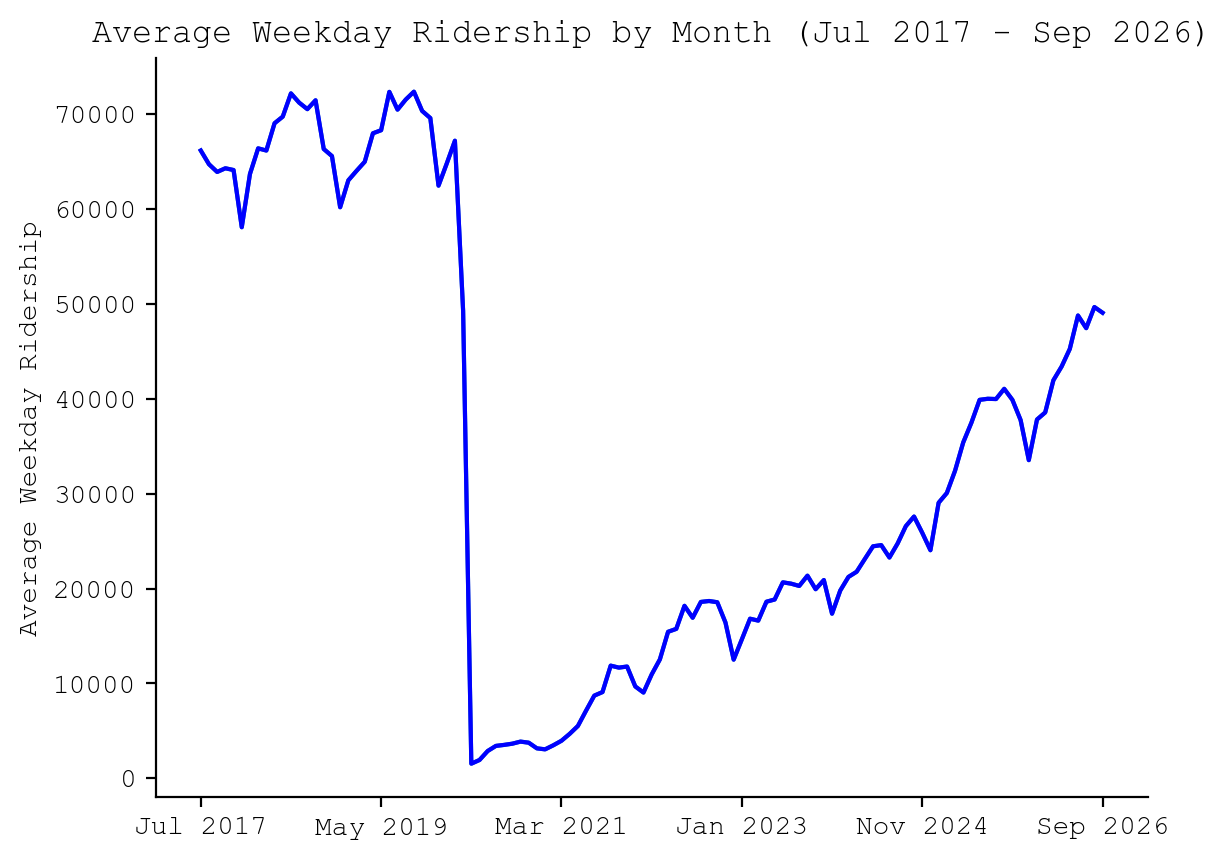
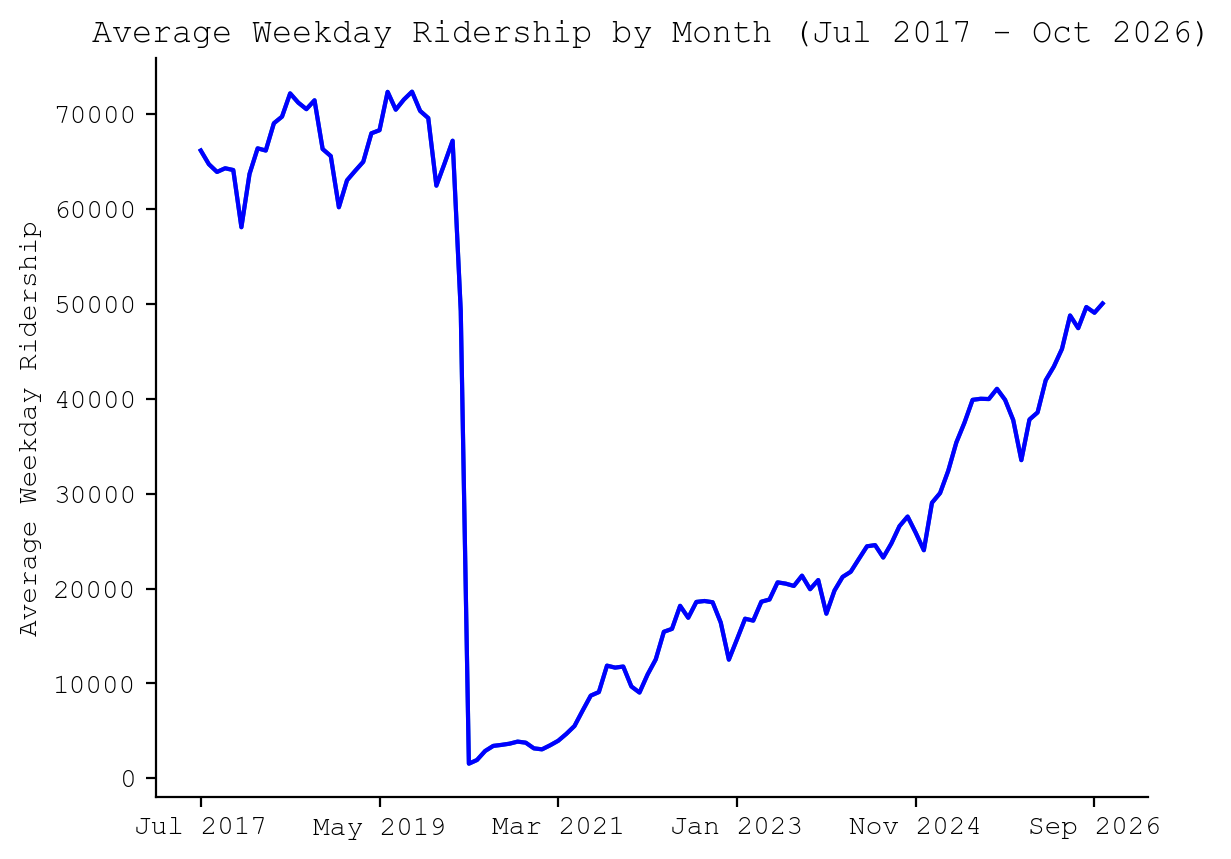
add oct 2026

diff --git a/site/index.html b/site/index.html
@@ -9,15 +9,15 @@
 </head>
 <body>
     <h1>Caltrain Ridership</h1>
-    <p><em>Last updated: 2026-10-15</em></p>    
+    <p><em>Last updated: 2026-11-12</em></p>    
     <div class="news">
         <p>
             It looks like you're on desktop, so you can use Caltrain's new ridership web page which has more detailed ridership data from 2023 onwards: <a href="https://www.caltrain.com/about-caltrain/statistics-reports/ridership/fare-media-based">https://www.caltrain.com/about-caltrain/statistics-reports/ridership/fare-media-based</a>.
         </p>
     </div>
     <p>
-        This site contains graphs and a table of Caltrain's average weekday ridership from Jul 2017 to Sep 2026 sourced from <a href="https://www.caltrain.com/about-caltrain/statistics-reports/ridership/fare-media-based">Fare Media Sales-Based Ridership Estimates</a> and JPB Citizens Advisory Committee documents.
-        Average weekday ridership is reported with a 1-month lag, so the most recent data is from Sep 2026.
+        This site contains graphs and a table of Caltrain's average weekday ridership from Jul 2017 to Oct 2026 sourced from <a href="https://www.caltrain.com/about-caltrain/statistics-reports/ridership/fare-media-based">Fare Media Sales-Based Ridership Estimates</a> and JPB Citizens Advisory Committee documents.
+        Average weekday ridership is reported with a 1-month lag, so the most recent data is from Oct 2026.
     </p>
     <p>
         You can find a <a href="https://github.com/iechevarria/caltrain-ridership/blob/main/ridership.csv">CSV</a> of Caltrain's average weekday ridership and the script to generate this site on <a href="https://github.com/iechevarria/caltrain-ridership">GitHub</a>.
@@ -31,6 +31,10 @@
     <tr>
         <td>Month</td>
         <td>Average weekday ridership</td>
+    </tr>
+    <tr>
+        <td>Oct 2026</td>
+        <td>50057</td>
     </tr>
     <tr>
         <td>Sep 2026</td>
